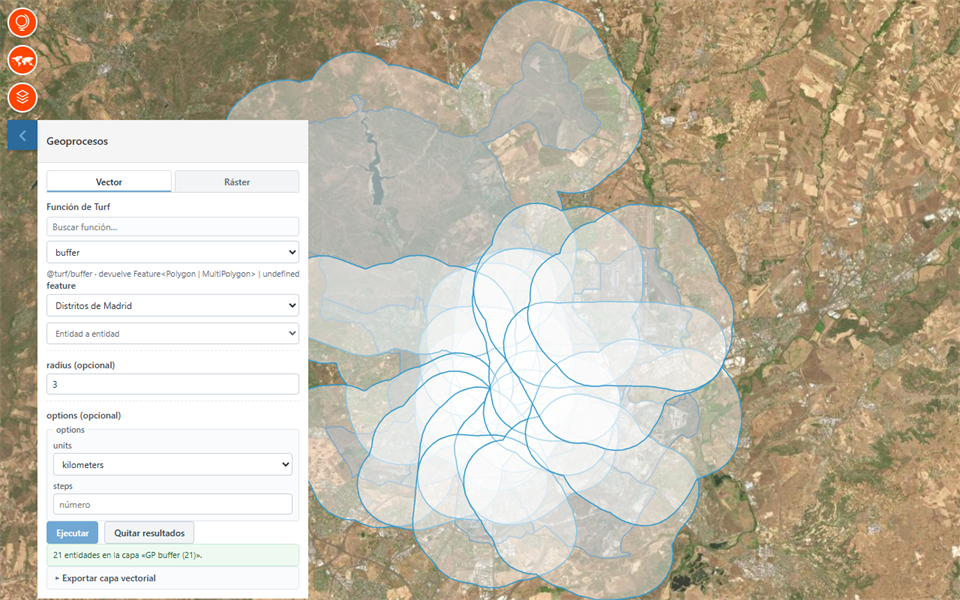
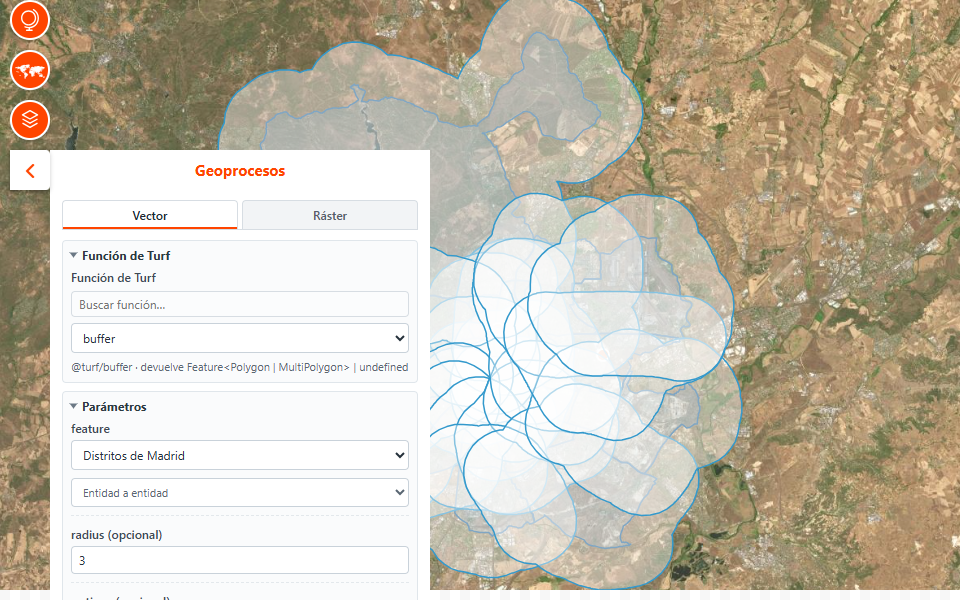
geoprocesos: colores del panel parametrizados por constructor (color1 fondo, color2 borde y acento, color3 icono y texto) con naranja por defecto, pasados explicitamente desde mapas/Geoprocesos/js/mapa.js para que el boton plegado, la cabecera, la pestana activa y el boton principal sigan el naranja

diff --git a/ext/geoprocesos/geoprocesos.css b/ext/geoprocesos/geoprocesos.css
@@ -45,7 +45,7 @@
 }
 
 .g-herramienta_geoprocesos.opened .m-tools:before {
-  background-color: var(--g-plugin-icon-color-active, #71A7D3);
+  background-color: var(--g-plugin-icon-color-active, orangered);
 }
 
 /* ── Estructura de la vista ───────────────────────────────────────────── */
@@ -92,8 +92,23 @@
 /* Panel abierto (opened) = estado activo: entran los colores "-active". */
 .m-areas > div.m-area > div.m-panel.g-herramienta_geoprocesos.opened .m-herramienta-header {
   background-color: var(--g-plugin-bg-color-active, #ffffff) !important;
-  color: var(--g-plugin-icon-color-active, #71A7D3) !important;
-  border-color: var(--g-plugin-border-color-active, #71A7D3) !important;
+  color: var(--g-plugin-icon-color-active, orangered) !important;
+  border-color: var(--g-plugin-border-color-active, orangered) !important;
+}
+
+/* Botón del panel (cerrado) y flecha de plegado (abierto). Sin estas reglas
+   el botón se queda con el azul de la API y no obedece a color1/color2/color3;
+   es el mismo patrón que usan baseLayer, catalogo y la plantilla. */
+.m-areas > div.m-area > div.m-panel.g-herramienta_geoprocesos > button.m-panel-btn {
+  background-color: var(--g-plugin-bg-color, orangered) !important;
+  color: var(--g-plugin-icon-color, #ffffff) !important;
+  border-color: var(--g-plugin-border-color, #ffffff) !important;
+}
+
+.m-areas > div.m-area > div.m-panel.g-herramienta_geoprocesos.opened > button.m-panel-btn {
+  background-color: var(--g-plugin-bg-color-active, #ffffff) !important;
+  color: var(--g-plugin-border-color-active, orangered) !important;
+  border-color: var(--g-plugin-border-color-active, orangered) !important;
 }
 
 .gp-body {
@@ -146,7 +161,7 @@
 .gp-tab--activa {
   color: #1f2a33;
   background-color: #ffffff;
-  box-shadow: inset 0 -2px 0 var(--g-plugin-border-color-active, #71A7D3);
+  box-shadow: inset 0 -2px 0 var(--g-plugin-border-color-active, orangered);
 }
 
 /* ── Bloques, etiquetas y ayudas ──────────────────────────────────────── */
@@ -219,9 +234,9 @@
 .gp-select:focus,
 .gp-textarea:focus,
 .gp-buscador:focus {
-  outline: 2px solid var(--g-plugin-border-color-active, #71A7D3);
+  outline: 2px solid var(--g-plugin-border-color-active, orangered);
   outline-offset: 0;
-  border-color: var(--g-plugin-border-color-active, #71A7D3);
+  border-color: var(--g-plugin-border-color-active, orangered);
 }
 
 .gp-buscador {
@@ -362,13 +377,13 @@
 
 .gp-btn--principal {
   color: #ffffff;
-  background-color: var(--g-plugin-border-color-active, #71A7D3);
-  border-color: var(--g-plugin-border-color-active, #71A7D3);
+  background-color: var(--g-plugin-border-color-active, orangered);
+  border-color: var(--g-plugin-border-color-active, orangered);
 }
 
 .gp-btn--principal:hover:not(:disabled) {
   filter: brightness(0.93);
-  background-color: var(--g-plugin-border-color-active, #71A7D3);
+  background-color: var(--g-plugin-border-color-active, orangered);
 }
 
 .gp-btn--mini {

diff --git a/ext/geoprocesos/geoprocesos.js b/ext/geoprocesos/geoprocesos.js
@@ -310,6 +310,21 @@
    * =================================================================== */
 
   class miPlugin_geoprocesos {
+    /**
+     * @param {Object} [options] Opciones del plugin.
+     * @param {string} [options.position='TL'] Esquina del panel (TL, TR, BL, BR).
+     * @param {boolean} [options.collapsible=true] Permite plegar el panel.
+     * @param {boolean} [options.collapsed=true] Arranca plegado.
+     * @param {number|null} [options.order=null] Orden CSS del panel dentro del área.
+     * @param {Object|string} [options.color1] Fondo del botón y de la cabecera
+     *   ({ active, deactive } o un color único). Por defecto blanco abierto y
+     *   naranja cerrado, como el resto de plugins del repositorio.
+     * @param {Object|string} [options.color2] Borde y color de acento (botones
+     *   principales, pestaña activa, foco). Por defecto naranja.
+     * @param {Object|string} [options.color3] Icono y texto de la cabecera. Por
+     *   defecto naranja.
+     * @param {string} [options.icon] SVG en línea o URL del icono del botón.
+     */
     constructor(options) {
       var o = options || {};
       this.name = 'miPlugin_geoprocesos';
@@ -329,9 +344,12 @@
         ? Number(o.order)
         : null;
 
+      // Colores del panel con el mismo esquema que el resto de plugins
+      // (color1 = fondo, color2 = borde/acento, color3 = icono y texto), pero
+      // en naranja como el resto de la barra de herramientas del visualizador.
       this.color1 = (o.color1 !== undefined) ? o.color1 : { active: '#ffffff', deactive: 'orangered' };
-      this.color2 = (o.color2 !== undefined) ? o.color2 : { active: '#71A7D3', deactive: '#ffffff' };
-      this.color3 = (o.color3 !== undefined) ? o.color3 : { active: '#71A7D3', deactive: '#ffffff' };
+      this.color2 = (o.color2 !== undefined) ? o.color2 : { active: 'orangered', deactive: '#ffffff' };
+      this.color3 = (o.color3 !== undefined) ? o.color3 : { active: 'orangered', deactive: '#ffffff' };
       this.icon = o.icon || o.icono || o.svg || null;
 
       // Pestaña activa y función de Turf elegida (es lo único que se conserva

diff --git a/mapas/Geoprocesos/js/mapa.js b/mapas/Geoprocesos/js/mapa.js
@@ -72,10 +72,15 @@ function mapa() {
 
   // La herramienta, en la esquina superior izquierda: las capas y sus
   // grupos viven en la derecha y la escala/atribuciones abajo.
+  // Colores del panel (color1 = fondo, color2 = borde/acento, color3 = icono y
+  // texto), en naranja como el resto de la barra de herramientas del mapa.
   mapajs.addPlugin(new M.plugin.miPlugin_geoprocesos({
     position: 'TL',
     collapsed: true,
     collapsible: true,
+    color1: { active: '#ffffff', deactive: 'orangered' },
+    color2: { active: 'orangered', deactive: '#ffffff' },
+    color3: { active: 'orangered', deactive: '#ffffff' },
   }));
 
   if (SVGCarga) SVGCarga.hidden = true;
